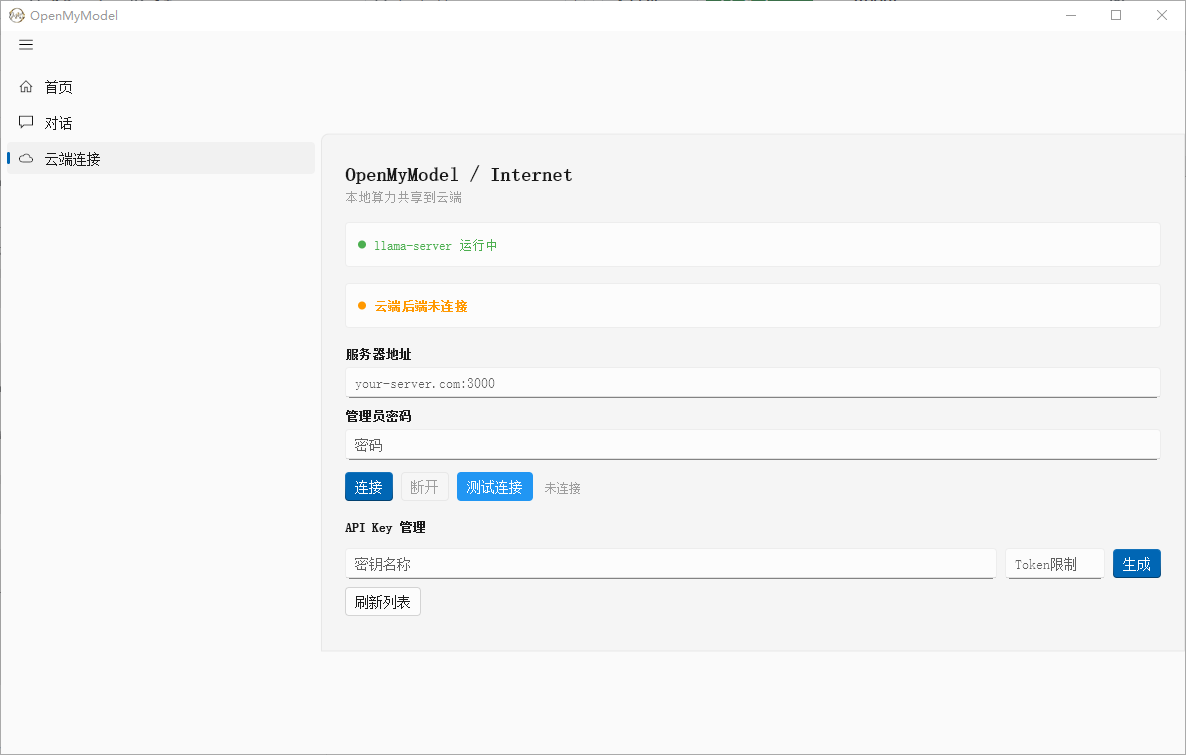
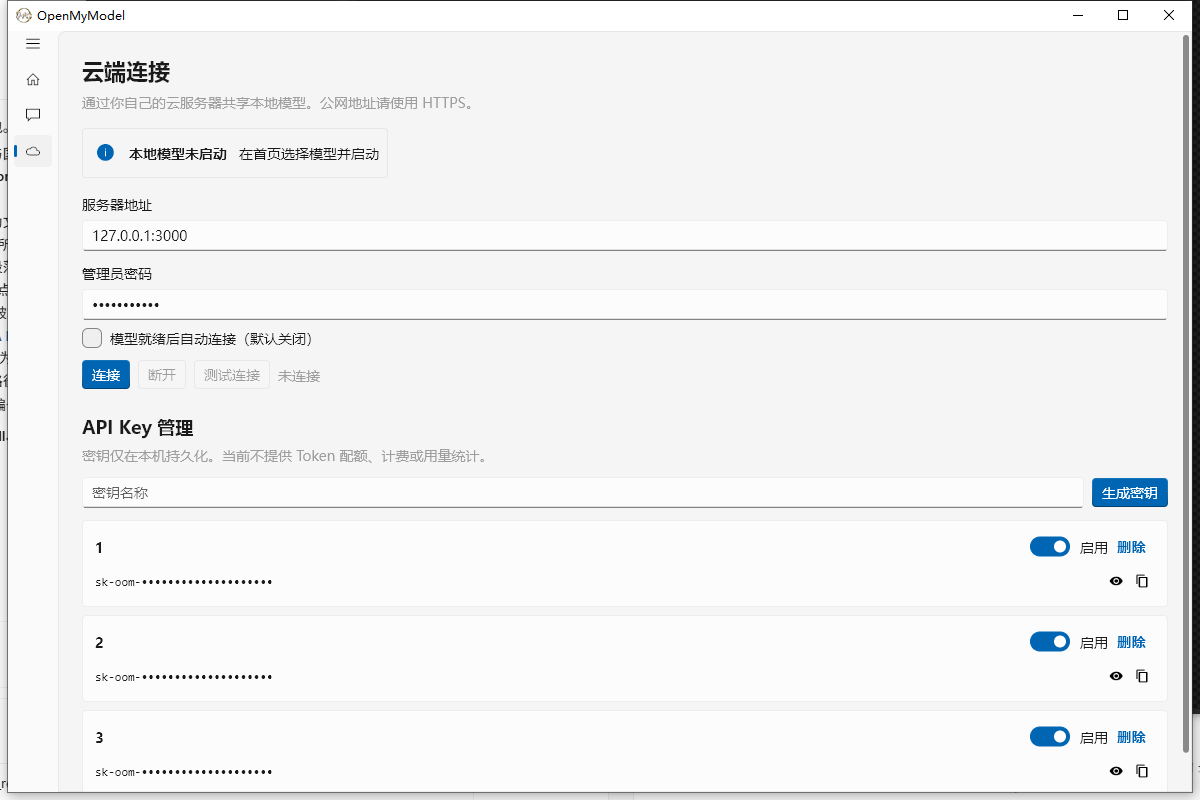
feat: Authenticode self-signing pipeline + refresh UI screenshots
- package_windows.py and make_installer.py accept --sign-pfx with a
  password file: openmymodel.exe, bundled llama-server exes and the
  final setup .exe are signed (SHA-256); RFC3161 timestamp is optional
  since the local network blocks timestamp POSTs and a self-signed cert
  is its own trust anchor
- Signed artifacts verified: Get-AuthenticodeSignature reports Valid
  after importing the cert into CurrentUser Root/TrustedPublisher;
  cert material lives in artifacts/codesign (not committed)
- README screenshots replaced with the new bundled-engine UI (engine
  combo row, collapsed parameter expanders, cloud page)

diff --git a/scripts/package_windows.py b/scripts/package_windows.py
@@ -22,6 +22,29 @@ def sha256(path: Path) -> str:
     return digest.hexdigest()
 
 
+def find_signtool() -> Path:
+    kits = Path("C:/Program Files (x86)/Windows Kits/10/bin")
+    if kits.is_dir():
+        for version in sorted(kits.iterdir(), reverse=True):
+            candidate = version / "x64" / "signtool.exe"
+            if candidate.is_file():
+                return candidate
+    raise FileNotFoundError("signtool.exe not found; install the Windows SDK")
+
+
+def sign_file(signtool: Path, target: Path, pfx: Path, password: str,
+              timestamp_url: str) -> None:
+    cmd = [str(signtool), "sign", "/fd", "sha256", "/f", str(pfx), "/p", password]
+    if timestamp_url:
+        cmd += ["/tr", timestamp_url, "/td", "sha256"]
+    cmd.append(str(target))
+    proc = subprocess.run(cmd,
+        capture_output=True, text=True, encoding="utf-8", errors="replace")
+    if proc.returncode != 0:
+        raise RuntimeError(f"signtool failed for {target.name}: "
+                           f"{(proc.stdout or '') + (proc.stderr or '')}")
+
+
 def main():
     parser = argparse.ArgumentParser(description=__doc__)
     parser.add_argument(
@@ -42,6 +65,13 @@ def main():
     )
     parser.add_argument("--flutter", default="flutter",
                         help="Flutter executable (flutter.bat on Windows)")
+    parser.add_argument("--sign-pfx", type=Path, default="",
+                        help="Optional PFX code-signing certificate")
+    parser.add_argument("--sign-password-file", type=Path, default="",
+                        help="File containing the PFX password (never pass passwords on the command line)")
+    parser.add_argument("--timestamp-url", default="",
+                        help="Optional RFC3161 timestamp server (network permitting); "
+                             "empty = sign without timestamp (fine for self-signed certs)")
     args = parser.parse_args()
     if args.output.resolve().exists():
         parser.error(f"Refusing to overwrite existing output: {args.output.resolve()}")
@@ -110,8 +140,8 @@ def main():
 
     engine_meta = []
     for source in engines:
-        manifest = source / "engine.json"
-        info = json.loads(manifest.read_text(encoding="utf-8")) if manifest.exists() else {}
+        manifest_path = source / "engine.json"
+        info = json.loads(manifest_path.read_text(encoding="utf-8")) if manifest_path.exists() else {}
         engine_meta.append({
             "name": source.name,
             "tag": info.get("tag", "unknown"),
@@ -127,6 +157,19 @@ def main():
         "This package contains no model, configuration profile, credentials or debug logs.\n",
         encoding="utf-8")
 
+    signed = []
+    if args.sign_pfx:
+        if not args.sign_password_file.is_file():
+            parser.error(f"--sign-password-file not found: {args.sign_password_file}")
+        signtool = find_signtool()
+        password = args.sign_password_file.read_text(encoding="utf-8").strip()
+        targets = [output / "openmymodel.exe"]
+        targets += [p for p in (output / "runtime" / "llama").rglob("llama-server.exe")]
+        for target in targets:
+            sign_file(signtool, target, args.sign_pfx, password, args.timestamp_url)
+            signed.append(str(target.relative_to(output)).replace("\\", "/"))
+        print(f"signed {len(signed)} executables with {args.sign_pfx.name} (timestamp: {args.timestamp_url})")
+
     revision = subprocess.check_output(["git", "rev-parse", "HEAD"], cwd=ROOT, text=True).strip()
     dirty = bool(subprocess.check_output(["git", "diff", "--name-only", "HEAD"], cwd=ROOT, text=True).strip())
     hashes = {str(path.relative_to(output)).replace("\\", "/"): sha256(path)
@@ -136,6 +179,7 @@ def main():
             "gitRevision": revision,
             "workingTreeModified": dirty,
             "engines": engine_meta,
+            "signedFiles": signed,
             "sha256": hashes,
         }, indent=2),
         encoding="utf-8")

diff --git a/scripts/make_installer.py b/scripts/make_installer.py
@@ -23,6 +23,16 @@ ISCC_CANDIDATES = [
 ]
 
 
+def find_signtool():
+    kits = Path("C:/Program Files (x86)/Windows Kits/10/bin")
+    if kits.is_dir():
+        for version in sorted(kits.iterdir(), reverse=True):
+            candidate = version / "x64" / "signtool.exe"
+            if candidate.is_file():
+                return candidate
+    return None
+
+
 def die(msg: str) -> None:
     print(f"[ERROR] {msg}", file=sys.stderr)
     sys.exit(1)
@@ -64,6 +74,12 @@ def main() -> None:
                         help="Directory for the resulting setup .exe")
     parser.add_argument("--iscc", default="", help="Explicit path to ISCC.exe")
     parser.add_argument("--engine-tag", default="b10909")
+    parser.add_argument("--sign-pfx", type=Path, default="",
+                        help="Optional PFX to Authenticode-sign the setup .exe")
+    parser.add_argument("--sign-password-file", type=Path, default="",
+                        help="File containing the PFX password")
+    parser.add_argument("--timestamp-url", default="",
+                        help="Optional RFC3161 timestamp server; empty = no timestamp")
     args = parser.parse_args()
 
     payload = args.payload.resolve()
@@ -104,6 +120,25 @@ def main() -> None:
     setup_exe = args.out / f"OpenMyModel-Setup-1.0.0-{rev}.exe"
     if not setup_exe.is_file():
         die(f"ISCC reported success but {setup_exe} is missing")
+
+    if args.sign_pfx:
+        if not args.sign_password_file.is_file():
+            die(f"--sign-password-file not found: {args.sign_password_file}")
+        signtool = find_signtool()
+        if signtool is None:
+            die("signtool.exe not found; install the Windows SDK to sign the installer")
+        password = args.sign_password_file.read_text(encoding="utf-8").strip()
+        cmd = [str(signtool), "sign", "/fd", "sha256", "/f", str(args.sign_pfx),
+               "/p", password]
+        if args.timestamp_url:
+            cmd += ["/tr", args.timestamp_url, "/td", "sha256"]
+        cmd.append(str(setup_exe))
+        proc = subprocess.run(cmd,
+            capture_output=True, text=True, encoding="utf-8", errors="replace")
+        if proc.returncode != 0:
+            die(f"signtool failed: {(proc.stdout or '') + (proc.stderr or '')}")
+        print(f"signed setup exe with {args.sign_pfx.name} (timestamp: {args.timestamp_url})")
+
     print(f"created {setup_exe}")
     print(f"  size:   {setup_exe.stat().st_size / (1024 * 1024):.1f} MiB")
     print(f"  sha256: {sha256_of(setup_exe)}")

diff --git a/docs/DEVELOPMENT.md b/docs/DEVELOPMENT.md
@@ -119,7 +119,20 @@ python scripts/make_installer.py --payload artifacts/OpenMyModel-win-x64-<rev>
 # 需要 ISCC.exe（winget install --id JRSoftware.InnoSetup -e），或 --iscc 指定路径
 ```
 
-安装包按用户级安装（无需管理员），默认目录 `%LOCALAPPDATA%\Programs\OpenMyModel`，含开始菜单/桌面快捷方式与卸载器；卸载不触碰用户数据（配置档案在 `%USERPROFILE%\.openmymodel`，偏好在 `%APPDATA%`）。安装包未做代码签名，首次运行会有 SmartScreen 提示。
+安装包按用户级安装（无需管理员），默认目录 `%LOCALAPPDATA%\Programs\OpenMyModel`，含开始菜单/桌面快捷方式与卸载器；卸载不触碰用户数据（配置档案在 `%USERPROFILE%\.openmymodel`，偏好在 `%APPDATA%`）。
+
+**代码签名（自签名）**：两个脚本都支持 `--sign-pfx <pfx> --sign-password-file <file>`。生成自签名证书并导入本机信任（仅本机显示"已验证"，SmartScreen 仍按文件声誉提示，私签不能消除）：
+
+```powershell
+New-SelfSignedCertificate -Type CodeSigningCert -Subject 'CN=OpenMyModel Self-Signed, O=OpenMyModel' `
+  -KeyUsage DigitalSignature -KeyExportPolicy Exportable -KeyLength 3072 `
+  -CertStoreLocation Cert:\CurrentUser\My -NotAfter (Get-Date).AddYears(5)
+# 导出 PFX/CER 后，在本机信任：
+Import-Certificate -FilePath openmymodel-selfsign.cer -CertStoreLocation Cert:\CurrentUser\Root
+Import-Certificate -FilePath openmymodel-selfsign.cer -CertStoreLocation Cert:\CurrentUser\TrustedPublisher
+```
+
+当前本机证书指纹 `14BDE1CB7F61CABA83B8640B7B9963C51C3C1C52`，PFX/密码保存在 `artifacts/codesign/`（不入库）。签名默认不带 RFC3161 时间戳（本机网络到各时间戳服务器的 POST 被拦）；私签场景时间戳非必需——需要时传 `--timestamp-url`。正式分发请购买 CA 证书后用同样的参数替换。
 
 ## 部署注意事项
 
